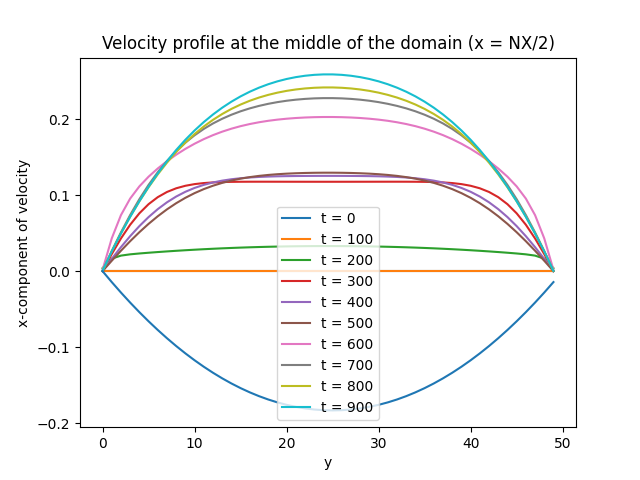
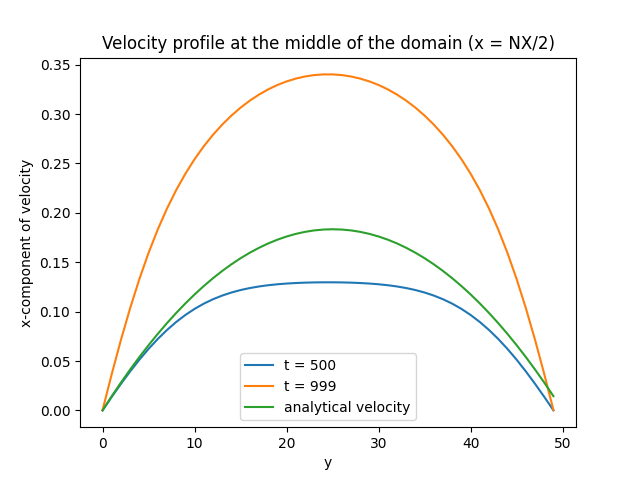
refactor

diff --git a/hpc_fluid_dynamics/lbm_class.py b/hpc_fluid_dynamics/lbm_class.py
@@ -43,7 +43,7 @@ class LBM:
         self.density_out = (self.p_out) / sound_speed**2
 
         # Initialize the PDF
-        self.pdf_9xy = init_pdf(NX, NY, mode)
+        self.pdf_9xy = init_pdf(NX, NY, mode, self.epsilon)
         
         # Flags for boundary conditions on each edge
         self.is_boundary = {
@@ -154,7 +154,27 @@ class LBM:
 
             # EQULIBRIUM 
             equilibrium_pdf_9xy = calc_equilibrium_pdf(density_xy, local_avg_velocity_xy2)
+            
+            # pressure conditions of left and right walls
+            if self.is_boundary["left"] or self.is_boundary["right"]:
+                    density_in_x_y = np.ones((self.NX, self.NY))*self.density_in
+                    density_out_x_y = np.ones((self.NX, self.NY))*self.density_out
 
+                    u1_x_y_2 = np.repeat(local_avg_velocity_xy2[1,:,:][None, :], self.NX, axis=0)
+                    uN_x_y_2 = np.repeat(local_avg_velocity_xy2[-2,:,:][None, :], self.NX, axis=0)
+
+                    eq_pdf_u1 = calc_equilibrium_pdf(density_out_x_y, u1_x_y_2)[:, 1, :]
+                    eq_pdf_uN = calc_equilibrium_pdf(density_in_x_y, uN_x_y_2)[:, -2, :]
+                    
+                    self.fill1 = eq_pdf_uN + (pdf_9xy[:, -2, :] - equilibrium_pdf_9xy[:, -2, :]) # x N
+                    self.fill2 = eq_pdf_u1 + (pdf_9xy[:, 1, :] - equilibrium_pdf_9xy[:, 1, :]) # x 1
+
+                    # pressure conditions of left and right walls
+                    if self.is_boundary["left"]:
+                        pdf_9xy[[1, 5, 8],0,:] = self.fill1[[1, 5, 8]]
+                    if self.is_boundary["right"]:
+                        pdf_9xy[[1, 5, 8],-1,:] = self.fill2[[1, 5, 8]]
+                        
             # COLLISION STEP
             pdf_9xy = pdf_9xy + self.omega*(equilibrium_pdf_9xy - pdf_9xy)
 
@@ -162,7 +182,7 @@ class LBM:
             pdf_9xy = streaming(pdf_9xy)
 
             # BOUNDARY CONDITIONS
-            pdf_9xy = self.boundary_conditions(pdf_9xy, density_xy, local_avg_velocity_xy2, equilibrium_pdf_9xy)
+            pdf_9xy = self.boundary_conditions(pdf_9xy, density_xy)
 
             
             if self.parallel:
@@ -179,7 +199,7 @@ class LBM:
                     xy = np.array([rcoords_x,rcoords_y]).T
                     density_xy_gathered = np.zeros((self.NX,self.NY))
                     velocity_xy_gathered = np.zeros((self.NX,self.NY,2))
-                    #
+
                     for i in np.arange(self.sectsX):
                         for j in np.arange(self.sectsY):
                             k = i*self.sectsX+j
@@ -192,8 +212,7 @@ class LBM:
 
                             density_xy_gathered[xlo:xhi,ylo:yhi] = density_1D[clo:chi].reshape(self.NX//self.sectsX,self.NY//self.sectsY)
                             velocity_xy_gathered[xlo:xhi,ylo:yhi,:] = velocity_1D[clo:chi,:].reshape(self.NX//self.sectsX,self.NY//self.sectsY,2)
-                    #print the middle of the grid
-                    #print(density_plot[self.NX//2,self.NY//2])
+
                     self.densities.append(density_xy_gathered)
                     self.velocities.append(velocity_xy_gathered)
 
@@ -217,7 +236,7 @@ class LBM:
             self.measured_viscosity = np.mean(viscosities)
 
 
-    def boundary_conditions(self,pdf_9xy,density_xy, local_avg_velocity_xy2, equilibrium_pdf_9xy):
+    def boundary_conditions(self,pdf_9xy,density_xy):
         """
         Boundary conditions in the couette, poiseuille and sliding lid contexts
         """
@@ -258,25 +277,7 @@ class LBM:
                 for oi in opposite_indexes:
                     pdf_9xy[oi[1], :, -1] = pdf_9xy[oi[0], :, -1]
 
-            # pressure conditions of left and right walls
-            if self.is_boundary["left"] or self.is_boundary["right"]:
-                    density_in_x_y = np.ones((self.NX, self.NY))*self.density_in
-                    density_out_x_y = np.ones((self.NX, self.NY))*self.density_out
 
-                    u1_x_y_2 = np.repeat(local_avg_velocity_xy2[1,:,:][None, :], self.NX, axis=0)
-                    uN_x_y_2 = np.repeat(local_avg_velocity_xy2[-2,:,:][None, :], self.NX, axis=0)
-
-                    eq_pdf_u1 = calc_equilibrium_pdf(density_out_x_y, u1_x_y_2)[:, 1, :]
-                    eq_pdf_uN = calc_equilibrium_pdf(density_in_x_y, uN_x_y_2)[:, -2, :]
-                    
-                    self.fill1 = eq_pdf_uN + (pdf_9xy[:, -2, :] - equilibrium_pdf_9xy[:, -2, :]) # x N
-                    self.fill2 = eq_pdf_u1 + (pdf_9xy[:, 1, :] - equilibrium_pdf_9xy[:, 1, :]) # x 1
-
-                    # pressure conditions of left and right walls
-                    if self.is_boundary["left"]:
-                        pdf_9xy[[1, 5, 8],0,:] = self.fill1[[1, 5, 8]]
-                    if self.is_boundary["right"]:
-                        pdf_9xy[[1, 5, 8],-1,:] = self.fill2[[1, 5, 8]]
 
         return pdf_9xy
     
@@ -350,7 +351,7 @@ class LBM:
         plt.clf()
         
         ## velocity profile at the middle of the domain, every 100 time steps
-        for i in range(0, self.nt, 100):
+        for i in [self.nt//2, self.nt-1]:
             plt.plot(self.velocities[i][self.NX//2,:,0], label="t = "+str(i))
             plt.title("Velocity profile at the middle of the domain (x = NX/2)")
             

diff --git a/hpc_fluid_dynamics/lbm_utils.py b/hpc_fluid_dynamics/lbm_utils.py
@@ -9,7 +9,7 @@ velocity_set_weights = np.array([4/9, 1/9, 1/9, 1/9, 1/9, 1/36, 1/36,
 
 sound_speed = 1 / np.sqrt(3)
 
-def init_pdf(NX = 250, NY = 250, mode = "random_uniform"): 
+def init_pdf(NX = 250, NY = 250, mode = "random_uniform",epsilon = 0.05): 
     """
     Initialize the probability distribution function (pdf) of the fluid
     particles. The pdf is a 3D array of shape (len(velocity_set), NX, NY), where
@@ -18,7 +18,6 @@ def init_pdf(NX = 250, NY = 250, mode = "random_uniform"):
     crash. 
     """
     rho0 = 0.5
-    epsilon = 0.05
     incr_array = np.tile(np.arange(NX), (NX, 1)) # array of increasing integers from 0 to L-
 
     pdf = np.ones((len(velocity_set), NX, NY)) / len(velocity_set)
@@ -73,7 +72,7 @@ def init_pdf(NX = 250, NY = 250, mode = "random_uniform"):
 
     else:
         raise ValueError("Invalid mode")
-    #pdf /= np.sum(pdf)
+
     return pdf
 
 def calc_density(pdf):
